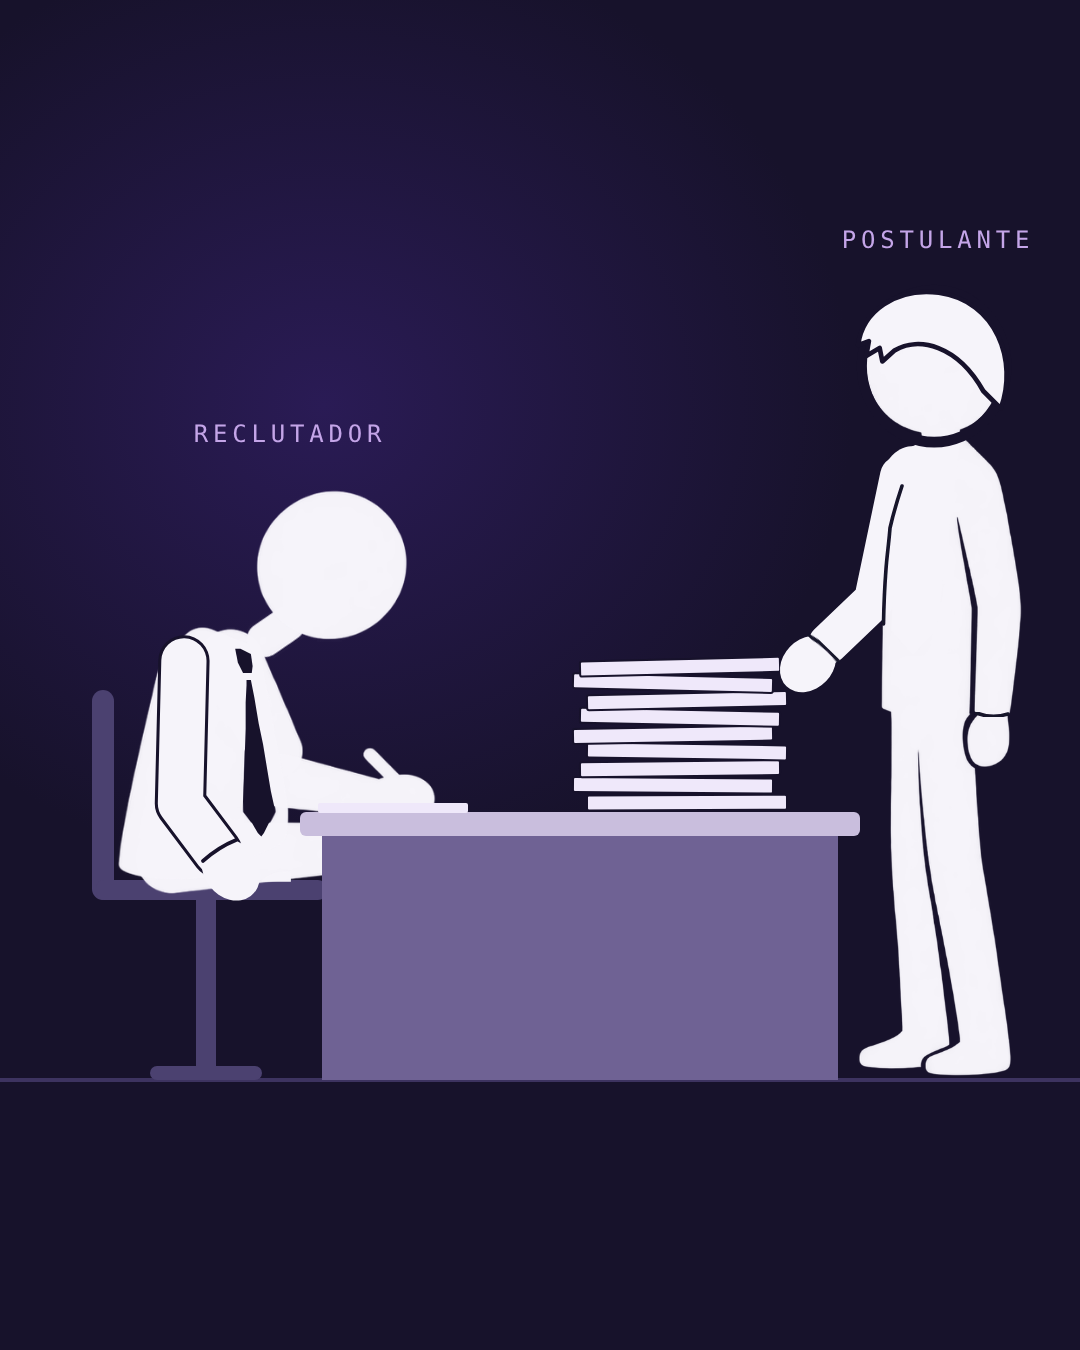
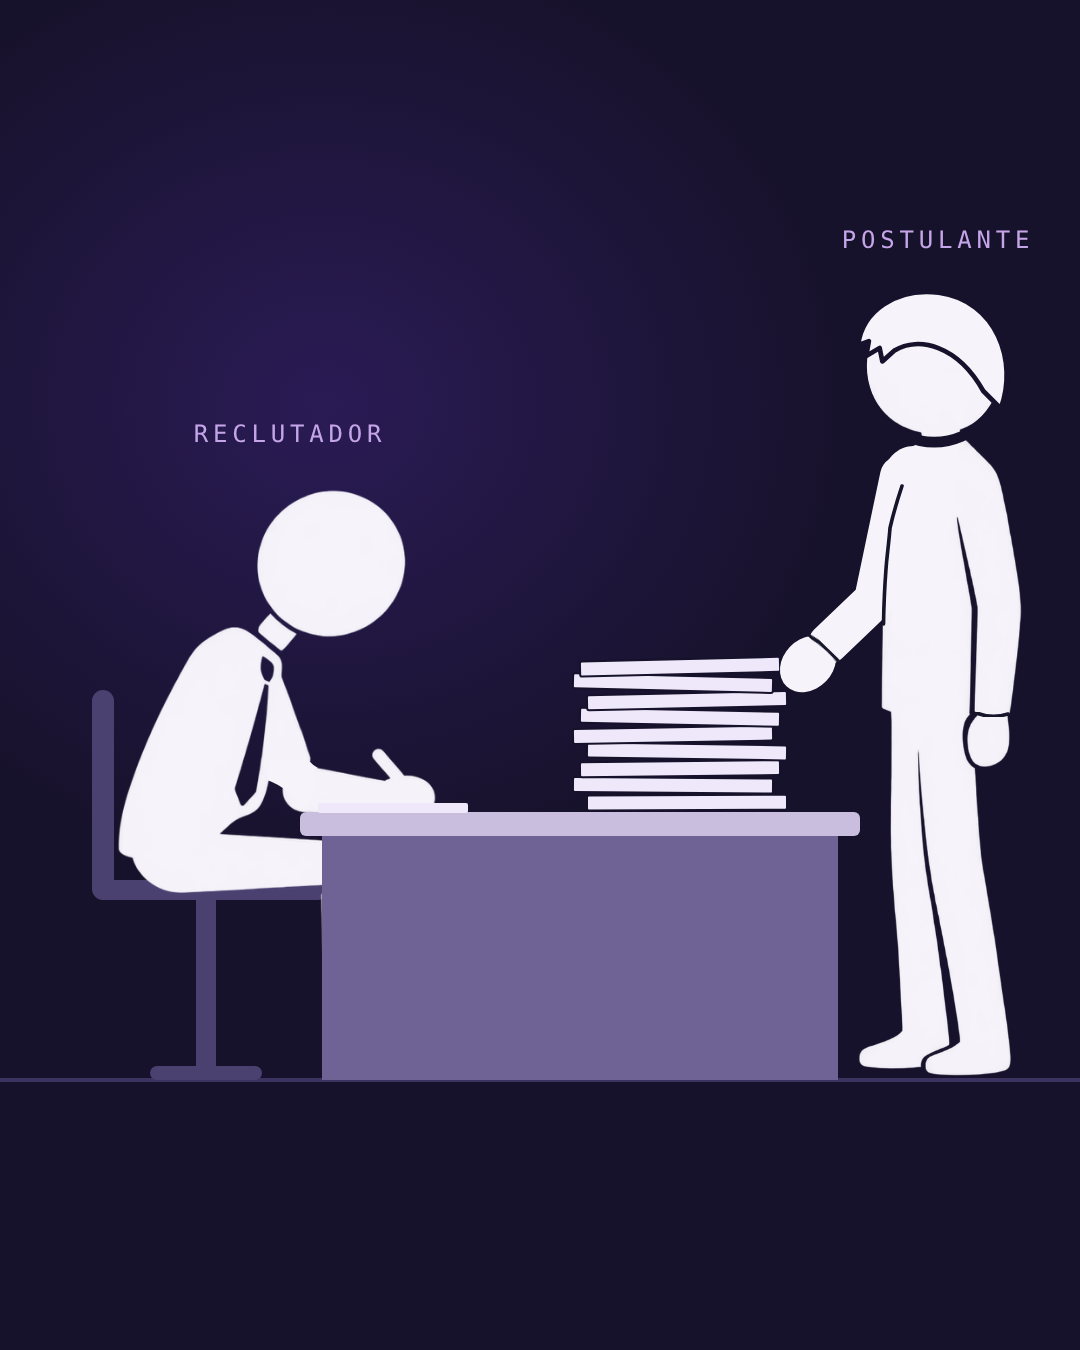
fix(video): restore previous recruiter and remove only the belly bulge
Revert the piece-by-piece rebuild (it changed head, neck and posture,
which was not asked for). On the previous version, change only the
underside of the elbow patch from convex to concave so it follows the
forearm and no longer reads as a belly.

Claude-Session: https://claude.ai/code/session_01TNESLuQNUwZZ73yDMFRmWn

Changed region(s): [[0.1222, 0.4356, 0.3667, 0.6844], [0.0917, 0.5911, 0.1222, 0.6533], [0.3361, 0.4356, 0.3667, 0.4667]]

diff --git a/videos/cv-ya-no-basta/elementos/escena1-still.html b/videos/cv-ya-no-basta/elementos/escena1-still.html
@@ -16,33 +16,17 @@
   <div class="abs" style="left:196px;top:900px;width:20px;height:178px;background:#4b4170"></div>
   <div class="abs" style="left:150px;top:1066px;width:112px;height:14px;border-radius:7px;background:#4b4170"></div>
   <!-- reclutador: queda DETRÁS del escritorio -->
-  <!-- RECLUTADOR armado con las piezas sueltas, en las coordenadas de la pose armada de la hoja
-       (misma escala y lugar que tenía la figura entera). Orden = profundidad. -->
-  <svg class="abs" style="left:0;top:0;overflow:visible" width="1080" height="1350">
-   <g transform="translate(110 480) scale(0.8696) translate(-1355 -148)">
-    <!-- brazo LEJANO, el que escribe: detrás del torso -->
-    <image href="personaje/piezas/brazo.png" x="1451" y="316" width="128" height="177"/>
-    <image href="personaje/piezas/antebrazo.png" x="1517" y="453" width="214" height="94"/>
-    <image href="personaje/piezas/muslo.png" x="1381" y="538" width="251" height="88"/>
-    <image href="personaje/piezas/torso.png" x="1361" y="314" width="202" height="296"/>
-    <!-- corbata: en la pieza es un hueco; con el brazo detrás se vería blanco, así que se repone -->
-    <g transform="translate(1361 314)" fill="#17122b">
-      <path d="M138 28 L144 28 L156 34 L158 48 L157 56 L147 56 L141 44 Z"/>
-      <path d="M151 64 L156 64 L160 84 L165 114 L170 138 L175 168 L179 192 L183 210 L183 216
-               L177 228 L171 240 L168 244 L164 240 L157 228 L148 216 L147 204 L148 180 L149 150
-               L150 120 L150 90 L151 70 Z"/>
-    </g>
-    <image href="personaje/piezas/cuello.png" x="1522" y="283" width="48" height="78" transform="rotate(55 1546 322)"/>
-    <image href="personaje/piezas/cabeza.png" x="1520" y="157" width="179" height="177"/>
-    <!-- brazo CERCANO: cuelga por el medio del costado (no tapa la corbata, que va al frente)
-         y apoya la mano sobre el muslo, junto a la cadera -->
-    <path d="M1440 356 L1436 520 L1478 576" stroke="#17122b" stroke-width="59" fill="none" stroke-linecap="round" stroke-linejoin="round"/>
-    <path d="M1440 356 L1436 520 L1478 576" stroke="#f6f4fa" stroke-width="52" fill="none" stroke-linecap="round" stroke-linejoin="round"/>
-    <ellipse cx="1494" cy="596" rx="31" ry="38" transform="rotate(-37 1494 596)" fill="#f6f4fa"/>
-    <path d="M1462 586 Q1480 570 1500 562" stroke="#17122b" stroke-width="4.5" fill="none" stroke-linecap="round"/>
-   </g>
-  </svg>
+  <img class="abs" src="personaje/reclutador-sentado-blanco.png" style="left:110px;top:480px;height:600px">
 
+  <!-- codo del reclutador: rellena la media luna oscura entre brazo y antebrazo -->
+  <svg class="abs" style="left:0;top:0" width="1080" height="1350">
+    <!-- un solo codo: el brazo baja y dobla hacia la mesa en una curva continua,
+         tapando la costura y el bulto redondo de la punta del antebrazo -->
+    <path d="M268 760 L305 759 Q310 764 313 768 L316 790 L304 811 Q290 788 267 780 Z"
+      fill="#f6f4fa"/>
+    <!-- pliegue interior del codo: sin escalón entre brazo y antebrazo -->
+    <path d="M305 752 Q308 763 318 768 L314 772 L302 762 Z" fill="#f6f4fa"/>
+  </svg>
   <!-- pila de CVs sobre el escritorio -->
   <svg class="abs" style="left:560px;top:640px" width="260" height="190" viewBox="0 0 260 190">
     <g id="pila"></g>
